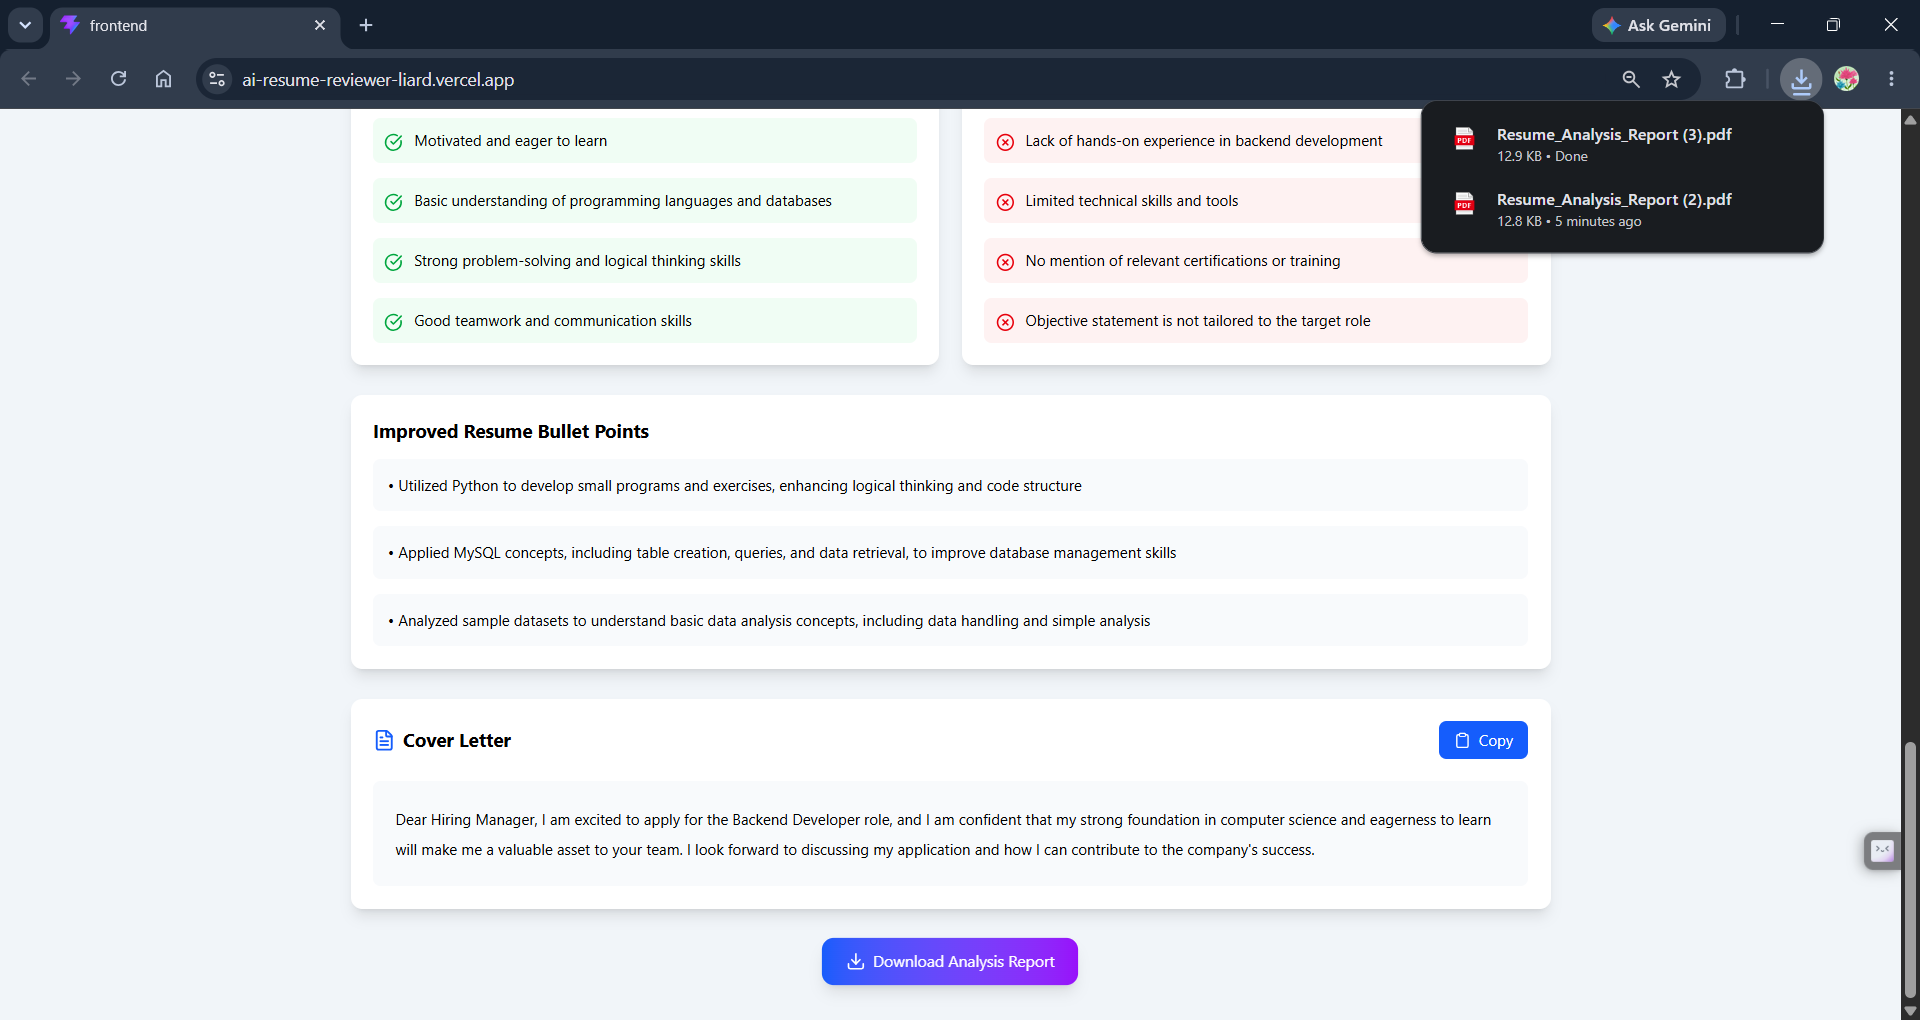
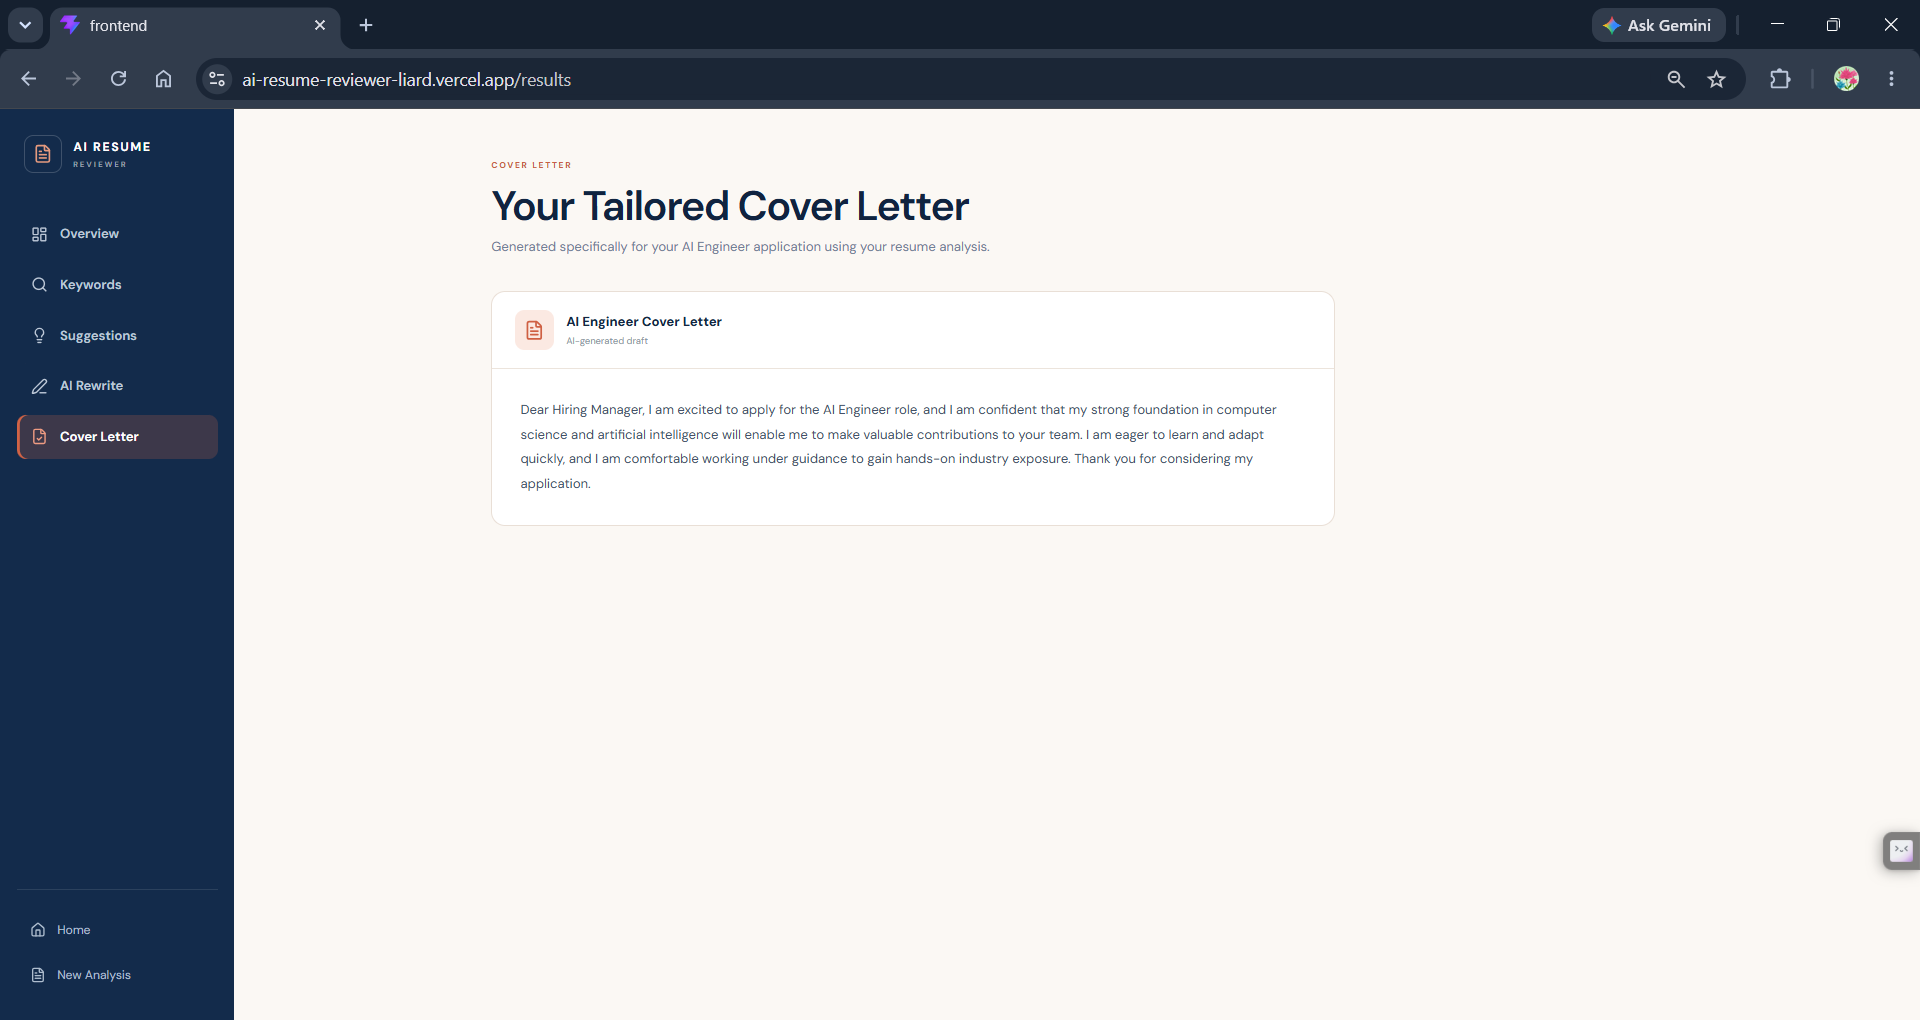
Updated README.md

diff --git a/README.md b/README.md
@@ -52,16 +52,15 @@ AI Resume Reviewer is a full-stack web application that analyzes resumes using A
 
 ```
 images/
-│── home.png
-│── upload-success.png
-│── ats-analysis.png
-│── ai-feedback.png
-│── cover-letter.png
+│── homepage.png
+│── upload-resume.png
+│── resume-analysis.png
+
 ```
 
 ### Home Page
 
-![Home](images/home.png)
+![Home](images/homepage.png)
 
 ---
 
@@ -69,19 +68,19 @@ images/
 
 Upload a PDF resume and choose your target role.
 
-![Resume Upload](images/upload-success.png)
+![Resume Upload](images/upload-resume.png)
 
 ---
 
 ### ATS Analysis
 
-![ATS](images/ats-analysis.png)
+![ATS](images/resume-analysis.png)
 
 ---
 
-### AI Feedback
+### AI Suggestions
 
-![Feedback](images/ai-feedback.png)
+![Feedback](images/ai-suggestions.png)
 
 ---
 